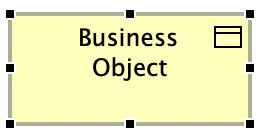
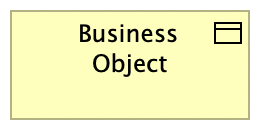
Adding triggering

Changed region(s): [[0.0, 0.0625, 0.9771, 0.9375], [0.2748, 0.1875, 0.6718, 0.3438], [0.3359, 0.4062, 0.6412, 0.625]]

diff --git a/Solution model agreement/Process View.md b/Solution model agreement/Process View.md
@@ -1,0 +1,286 @@
+Ниже — компактные, практичные правила для бизнес-аналитиков по описанию бизнес-процессов в ArchiMate® 3.2. Они рассчитаны на использование “как есть” в корпоративной практике и согласованы с официальной спецификацией и рекомендованной литературой.
+
+# 1) Что такое Process View и когда его использовать
+
+**Process View** — это вид (view) архитектуры, где фокус на течении работ (behavior), событиях и данных процесса, а также на ролях/акторах, которые выполняют работу. Он отвечает на вопросы: _кто выполняет что, в какой последовательности, какие данные читаются/записываются и какие сервисы задействованы_.  
+В ArchiMate это достигается элементами слоя Business (Process, Function, Event, Role/Actor, Business Object) и связями Triggering/Flow/Access/Assignment/Serving; при необходимости допускаются «соседние» слои (Application/Data) для явного указания ИТ-сервисов и данных. ([opengroup.org](https://www.opengroup.org/sites/default/files/docs/downloads/n221p.pdf?utm_source=chatgpt.com "ArchiMate 3.2 Specification Reference Cards"))
+
+Рекомендуемая детализация:
+
+- **L1 (сквозной процесс)** — 5-12 шагов, только ключевые события/данные/внешние сервисы.
+    
+- **L2 (подпроцессы)** — раскрытие узлов L1 в подпроцессы, добавляем ключевые Business Objects и Application Services.
+    
+- **L3 (операционный уровень)** — детальные шаги, точки доступа к данным, бизнес-правила, обработка исключений.
+    
+
+# 2) Разрешённые элементы (и альтернативы запретам)
+
+Обязательный базовый набор:
+
+- **Business Process** — основная единица поведения процесса.
+    
+- **Business Event** — событие, инициирующее/завершающее/ветвящее поведение.
+    
+- **Business Role** (и при необходимости **Business Actor**) — «кто» выполняет шаги.
+    
+- **Business Function** — для устойчивых «функциональных областей», если нужно сгруппировать шаги процесса по компетенции.
+    
+- **Business Object / Contract / Product** — для информации, артефактов или предложения ценности, если это критично для понимания процесса.
+    
+- **Application Service / Application Component / Data Object** — чтобы показать опору процесса на ИТ-сервисы и данные. ([opengroup.org](https://www.opengroup.org/sites/default/files/docs/downloads/n221p.pdf?utm_source=chatgpt.com "ArchiMate 3.2 Specification Reference Cards"))
+    
+
+**Запрет:** _Business Interaction_ **не использовать** (см. §7 — вместо него применяйте Process + Role/Actor и связи Flow/Triggering/Serving). Описание элемента и его предназначение см. в справочниках по ArchiMate, но в этих правилах он исключён из практики моделирования. ([help.bizzdesign.com](https://help.bizzdesign.com/articles/horizzon-help/archimate-business-layer-elements?utm_source=chatgpt.com "ArchiMate Business Layer elements"))
+
+# 3) Связи: что с чем соединяем (и как именно)
+
+Ниже — только то, что реально потребуется на процессных схемах.
+
+## 3.1 Assignment (назначение)
+
+**От:** Business Role/Actor → **к:** Business Process/Function/Event/Service. Показывает, кто выполняет поведение или предоставляет сервис. Применять последовательно на каждом шаге, где важно «владение действием». ([ArchiMate Resources for FREE](https://archimate.visual-paradigm.com/archimate-notation-part-8-relationships/?utm_source=chatgpt.com "ArchiMate Notation: Part 8 - Relationships"))
+
+## 3.2 Triggering (триггер)
+
+**От:** Event/Process → **к:** Process/Event. Отражает причинно-временную связь (что запускает/завершает что). Использовать для «открывающих»/«закрывающих» событий, эскалаций, таймеров. ([ArchiMate Resources for FREE](https://archimate.visual-paradigm.com/archimate-notation-part-8-relationships/?utm_source=chatgpt.com "ArchiMate Notation: Part 8 - Relationships"))
+
+## 3.3 Flow (поток)
+
+**От:** Process/Function/Event → **к:** Process/Function/Event. Передача «чего-то» между шагами (сообщение, работа, материальный объект), но **не** данных (для данных — Access). Используйте для «эстафеты» между шагами и команд. ([ArchiMate Resources for FREE](https://archimate.visual-paradigm.com/archimate-notation-part-8-relationships/?utm_source=chatgpt.com "ArchiMate Notation: Part 8 - Relationships"))
+
+## 3.4 Serving (предоставление)
+
+**От:** провайдер (например, Application Service или Business Service) → **к:** потребителю (Process/Role и т.п.). Показывает, какой сервис поддерживает процесс/шаг. На L1/L2 достаточно указывать ключевые сервисы. ([sparxsystems.com](https://sparxsystems.com/resources/user-guides/16.0/large-print/model-domains/languages/archimate.pdf?utm_source=chatgpt.com "ArchiMate Modeling Language"))
+
+## 3.5 Access (доступ к данным) — ключевые правила
+
+**Семантика:** модель «поведение/активная структура → пассивная структура». В процессном виде это означает: шаг процесса **читает/пишет** объект данных/бизнес-объект. ([ArchiMate Resources for FREE](https://archimate.visual-paradigm.com/archimate-notation-part-8-relationships/?utm_source=chatgpt.com "ArchiMate Notation: Part 8 - Relationships"))
+
+**Откуда/куда:**
+
+- **От:** Business Process / Function / Event **или** Active Structure (Role/Actor, Application Component)
+    
+- **К:** Business Object / Data Object (пассивные структуры) ([ArchiMate Resources for FREE](https://archimate.visual-paradigm.com/archimate-notation-part-8-relationships/?utm_source=chatgpt.com "ArchiMate Notation: Part 8 - Relationships"))
+    
+
+**Типы доступа (обязательно задавать):**
+
+- **Read (R)** — чтение.
+    
+- **Write (W)** — запись/изменение/создание/удаление.
+    
+- **Read/Write (RW)** — и чтение, и запись.  
+    Тип задаётся как свойство/метка связи (во многих инструментах — поле _Access_Type_). Визуально допускаются варианты стрелок/двунаправленности, но в модели направление логически идёт **от поведения/активной структуры к данным**. ([archimatetool.com](https://www.archimatetool.com/downloads/archi/Archi%20User%20Guide.pdf?utm_source=chatgpt.com "Archi User Guide"))
+    
+
+**Практика:**
+
+- На L1 ставьте **только R/W/RW** на ключевые объекты.
+    
+- На L2/L3 показывайте доступ на каждом шаге, избегайте «висящих» объектов без Access.
+    
+- Не путайте **Flow** (передача работы) и **Access** (доступ к данным). ([ArchiMate Resources for FREE](https://archimate.visual-paradigm.com/archimate-notation-part-8-relationships/?utm_source=chatgpt.com "ArchiMate Notation: Part 8 - Relationships"))
+    
+
+## 3.6 Realization (реализация)
+
+**От:** поведение/структура низшего уровня (например, Process → Business Service; Application Component → Application Service) **к:** более абстрактному. Используйте, чтобы показать, какой процесс/компонент реализует сервис. ([ArchiMate Resources for FREE](https://archimate.visual-paradigm.com/archimate-notation-part-8-relationships/?utm_source=chatgpt.com "ArchiMate Notation: Part 8 - Relationships"))
+
+## 3.7 Composition/Aggregation
+
+**От:** «целое» → **к:** «часть». Применяйте для иерархий процессов (L1 содержит L2, и т.д.). Не используйте для последовательности — для неё есть Triggering/Flow. ([ArchiMate Resources for FREE](https://archimate.visual-paradigm.com/archimate-notation-part-8-relationships/?utm_source=chatgpt.com "ArchiMate Notation: Part 8 - Relationships"))
+
+## 3.8 Association / Specialization / Junctions
+
+Используются ограниченно: Association — для прочих слабосемантических связей (по возможности избегайте и заменяйте на более точные), Specialization — когда действительно нужна таксономия; Junctions — для ветвлений/слияний потоков одного вида. ([ArchiMate Resources for FREE](https://archimate.visual-paradigm.com/archimate-notation-part-8-relationships/?utm_source=chatgpt.com "ArchiMate Notation: Part 8 - Relationships"))
+
+# 4) Правила именования (elements & relations)
+
+**Общие:**
+
+- **Язык:** корпоративный (RU/EN) — единообразно внутри модели.
+    
+- **Формат имени процесса:** _Глагол_ + _Объект_ + _(Контекст)_, например: «Обработать заявку (онлайн-канал)».
+    
+- **Уровень в имени (опционально):** `L1/L2/L3` в конце или в атрибуте «Уровень».
+    
+- **Без аббревиатур**, если они не стандартизованы в глоссарии.
+    
+- **Сервисы:** как _результат/возможность_ в форме существительного: «Предоставление статуса заказа».
+    
+- **Объекты данных:** в единственном числе, класс сущности: «Заявка», «Договор», «Платёж».
+    
+- **События:** в совершенном виде: «Заявка получена», «Платёж отклонён».
+    
+- **Связи:** имена не требуются, **кроме** случаев Access (если инструмент не поддерживает типы) — тогда в имени связи укажите `R/W/RW`. Рекомендуется заполнять свойство типа доступа, а не имя. 
+    
+
+# 5) Минимальный состав атрибутов (заполнять обязательно)
+
+## 5.1 Для **Business Process** (и подпроцессов)
+
+- **Код**: `BP-<уровень>-<номер>` (напр., `BP-L2-015`)
+    
+- **Название**
+    
+- **Версия**
+    
+- **Статус жизненного цикла** (Draft/Approved/Deprecated)
+    
+- **Владелец процесса** (роль/подразделение)
+    
+- **Последний редактор**
+    
+- **Дата последней актуализации**
+    
+- **Уровень детализации** (L1/L2/L3)
+    
+- **Цель/результат** (кратко)
+    
+- **Метрики** (KPI, SLA — если применимо)
+    
+- **Связанные политики/регламенты** (ссылки)
+    
+- **Связанные сервисы** (Business/Application Services — ссылки на элементы)
+    
+
+## 5.2 Для **Business Event**
+
+- **Код**: `BEV-<номер>`
+    
+- **Название** (в форме результата)
+    
+- **Тип** (External/Internal/Timer/Error)
+    
+- **Версия / Статус / Дата актуализации**
+    
+- **Источник/Приёмник** (если известно)
+    
+
+## 5.3 Для **Business Role / Actor**
+
+- **Код**: `BR-<номер>` / `BA-<номер>`
+    
+- **Название**
+    
+- **Единица оргструктуры** (если Actor)
+    
+- **Владелец роли**
+    
+- **Связанные компетенции/допуски** (ссылка)
+    
+
+## 5.4 Для **Business Function**
+
+- **Код**: `BF-<номер>`
+    
+- **Название**
+    
+- **Область ответственности**
+    
+- **Связанные процессы (родитель/часть)**
+    
+
+## 5.5 Для **Business Object**
+
+- **Код**: `BO-<номер>`
+    
+- **Название** (класс данных)
+    
+- **Описание/состав ключевых атрибутов**
+    
+- **Качество данных/владелец данных**
+    
+- **Связь с доменной моделью/справочником**
+    
+
+## 5.6 Для **Application Service / Component / Data Object**
+
+- **Коды**: `AS-`, `AC-`, `DO-`
+    
+- **Название**
+    
+- **Версия / Статус**
+    
+- **Владелец ИТ-сервиса/компонента**
+    
+- **Соглашения (SLA/OLA)** — если есть
+    
+- **Системы-источники/назначения (для DO)**
+    
+
+## 5.7 Для **связей**
+
+- **Тип связи** (обяз.)
+    
+- **Специальные свойства:**
+    
+    - **Access** → _Access_Type_ = `Read` | `Write` | `ReadWrite`
+        
+    - **Association Directed** (если инструмент поддерживает)
+        
+- **Основание** (ссылка на требование/регламент/артефакт анализа)
+    
+- **Комментарий** (опционально: бизнес-правило, примечание к исключению) ([archimatetool.com](https://www.archimatetool.com/downloads/archi/Archi%20User%20Guide.pdf?utm_source=chatgpt.com "Archi User Guide"))
+    
+
+# 6) Шаблоны построения Process View
+
+- **Каркас L1:** цепочка **Business Process** с **Triggering** между ними; старт/финиш как **Business Event**; ключевые **Business Objects** через **Access (R/W)**; опорные **Application Services** через **Serving**; исполнители через **Assignment** к шагам. ([ArchiMate Resources for FREE](https://archimate.visual-paradigm.com/archimate-notation-part-8-relationships/?utm_source=chatgpt.com "ArchiMate Notation: Part 8 - Relationships"))
+    
+- **Декомпозиция:** иерархия **Composition** (процесс → подпроцесс).
+    
+- **Перекладывание ответственности:** **Flow** между шагами разных ролей; «передача» пакета работ без изменения данных (данные — только Access). ([ArchiMate Resources for FREE](https://archimate.visual-paradigm.com/archimate-notation-part-8-relationships/?utm_source=chatgpt.com "ArchiMate Notation: Part 8 - Relationships"))
+    
+- **Данные:** каждый значимый шаг имеет хотя бы один Access к объекту; на L3 отображайте RW там, где есть модификация, и R — где только чтение. ([ArchiMate Resources for FREE](https://archimate.visual-paradigm.com/dependency-relationship-part-1-access-relationship-archimate/?utm_source=chatgpt.com "Part 2 - What is Access Relationship in ArchiMate?"))
+    
+
+# 7) Чем заменить _Business Interaction_ (полный отказ)
+
+Вместо _Business Interaction_ используйте:
+
+- **Business Process** (или подпроцесс) для совместной деятельности,
+    
+- **Business Roles/Actors** с **Assignment** на этот процесс,
+    
+- **Flow/Triggering** между процессами/событиями разных ролей,
+    
+- при необходимости **Business Collaboration** (если нужно явно показать «команду» из нескольких ролей), но предпочтительно обойтись Process + Roles для простоты процессного вида. Официальные справочники описывают Interaction, но в нашей методике он исключён для единообразия. ([goodea.eu](https://www.goodea.eu/archimate/reference/?utm_source=chatgpt.com "ArchiMate 3.2 reference"))
+    
+
+# 8) Качество моделей и «чек-лист» перед публикацией
+
+1. **Полнота метаданных:** у каждого элемента/связи заполнены обязательные атрибуты (коды, версии, даты, владельцы).
+    
+2. **Однозначность потоков:** не смешиваем Flow (передача работы) и Access (данные).
+    
+3. **Исполнители назначены:** у значимых шагов есть Assignment к Role/Actor.
+    
+4. **Сервисы показаны лаконично:** Serving только для опорных сервисов.
+    
+5. **Иерархия и уровни:** L1→L2→L3 через Composition; уровни и коды согласованы.
+    
+6. **Запрещённые элементы:** нет Business Interaction.
+    
+7. **Трассируемость:** связи помечены источниками (регламент, требования, инвентарь данных/сервисов).
+    
+
+---
+
+# Источники
+
+- **The Open Group: ArchiMate® 3.2 — справочные материалы и таблицы связей.** Использовано для определения типов элементов и связей, их направленности и применения (в т.ч. Triggering, Flow, Serving, Access). ([opengroup.org](https://www.opengroup.org/sites/default/files/docs/downloads/n221p.pdf?utm_source=chatgpt.com "ArchiMate 3.2 Specification Reference Cards"))
+    
+- **Gerben Wierda — “Mastering ArchiMate Edition 3.2”.** Использовано для практических приёмов моделирования и композиции процессных видов (актуальность 3.2). ([booktopia.com.au](https://www.booktopia.com.au/mastering-archimate-edition-3-2-gerben-wierda/book/9789083143439.html?srsltid=AfmBOoqXFRcKvvfSfNy2N4d3QLV_swOaHd_w8oSsv1THXWdUM53-UiYE&utm_source=chatgpt.com "Mastering ArchiMate Edition 3.2 by Gerben Wierda"))
+    
+- **Wierda: ArchiMate® 3.2 sheets (метамодель/элементы).** Для сверки перечня элементов бизнес-слоя и их ролей. ([R&A IT Strategy & Architecture](https://ea.rna.nl/wp-content/uploads/2023/08/archimate-sheets-en-20230805-s.pdf?utm_source=chatgpt.com "ArchiMate® 3.2 Metamodel -- Core"))
+    
+- **Bizzdesign Help — отношения ArchiMate и типы Access.** Для уточнения допускаемых связей и системных свойств Access_Type. ([help.bizzdesign.com](https://help.bizzdesign.com/articles/horizzon-help/archimate-relationships?utm_source=chatgpt.com "ArchiMate relationships"))
+    
+- **Visual Paradigm — руководства по отношениям и viewpoint’ам.** Для формулировок практики Process View и разграничения Flow/Triggering/Access. ([ArchiMate Resources for FREE](https://archimate.visual-paradigm.com/archimate-notation-part-8-relationships/?utm_source=chatgpt.com "ArchiMate Notation: Part 8 - Relationships"))
+    
+- **Sparx Systems (EA) — рекомендации по Serving между слоями.** Для примеров связи сервисов приложений с процессами. ([sparxsystems.com](https://sparxsystems.com/resources/user-guides/16.0/large-print/model-domains/languages/archimate.pdf?utm_source=chatgpt.com "ArchiMate Modeling Language"))
+    
+
+Если хотите, подготовлю шаблоны (Archi/EA/BiZZdesign) с предзаполненными свойствами и палитрой, а также чек-листом проверки — скажите, под какой инструмент.

diff --git a/Solution model agreement/Business Architecture Layer.md b/Solution model agreement/Business Architecture Layer.md
@@ -32,15 +32,22 @@
 | **Value**               | ![[value.png]]                                            | Ценность, создаваемая или доставляемая процессом или сервисом.                                                                                          | _Customer Satisfaction_, _Revenue Growth_                                                                      | Использовать существительное, обозначающее результат или пользу. Пример: `Удовлетворённость клиента`, `Рост дохода`.                    |
 | **Business Capability** | ![[business-capability.png]]                              | Способность организации выполнять определённый набор функций.                                                                                           | _Customer Relationship Management_, _Architecture Management_                                                  | Использовать существительное или фразу «Управление …». Пример: `Управление клиентскими отношениями`, `Управление архитектурой`.         |
 | **Value Stream**        | ![[value-stream.png]]                                     | Последовательность стадий, создающих ценность для клиента.                                                                                              | _Customer Lifecycle Management_, _Architecture Knowledge Flow_                                                 | Использовать выражение, обозначающее поток действий. Пример: `Поток управления жизненным циклом клиента`, `Поток архитектурных знаний`. |
+|                         |                                                           |                                                                                                                                                         |                                                                                                                |                                                                                                                                         |
+Таблица специальных элементов
+
+| Элемент      | Графическое <br>представление        | Описание элемента |
+| ------------ | ------------------------------------ | ----------------- |
+| And Junction | ![[junction-and.png]]                |                   |
+| Or Junction  | ![[junction-or.png]]                 |                   |
+| Grouping     | ![[grouping.png]] |                   |
 
 Таблица типов связей
 
-| Тип связи    | Графическое представление | Описание типа связи                                         | Правило именования (рус.)                  |
-| ------------ | ------------------------- | ----------------------------------------------------------- | ------------------------------------------ |
-| Flow         | ![[relation-flow.jpg]]    | Показывает поток объектов или информации между поведениями. | Использовать «передаёт → принимает».       |
-| Access       | ![[relation-access.jpg]]  | Элемент поведения использует или изменяет бизнес-объект.    | Использовать «использует» или «обновляет». |
-| And Junction | ![[junction-and.png]]     |                                                             |                                            |
-| Or Junction  | ![[junction-or.png]]      |                                                             |                                            |
+| Тип связи | Графическое представление                                  | Описание типа связи                                         | Правило именования (рус.)                  |
+| --------- | ---------------------------------------------------------- | ----------------------------------------------------------- | ------------------------------------------ |
+| Flow      | ![[relation-flow.jpg]]                                     | Показывает поток объектов или информации между поведениями. | Использовать «передаёт → принимает».       |
+| Access    | ![[relation-access.jpg]]                                   | Элемент поведения использует или изменяет бизнес-объект.    | Использовать «использует» или «обновляет». |
+| Trigger   | ![[relation-trigger.jpg]] | Временная или причинно-следственная связь между элементами. |                                            |
 
 ### 3.1 Business Capability
 
